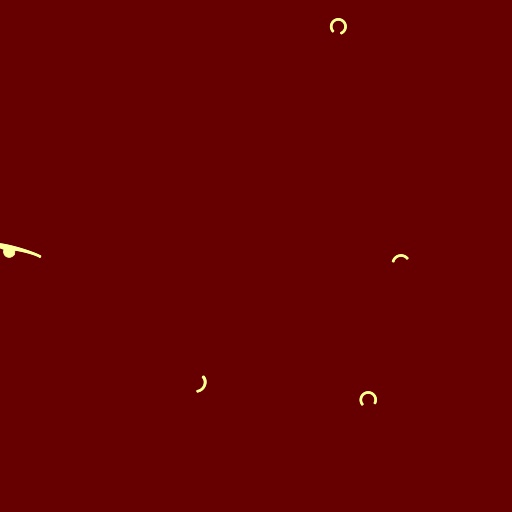
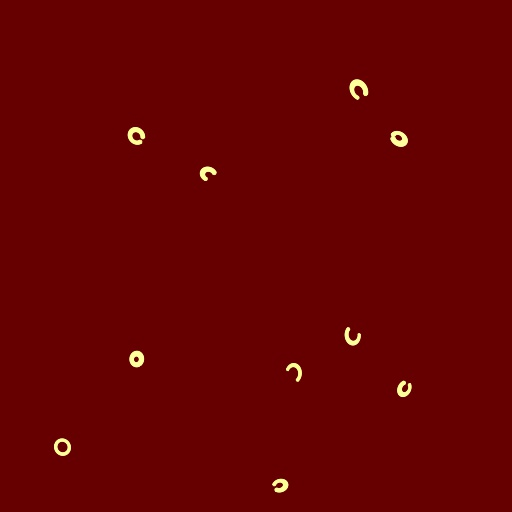
update

diff --git a/gusto/image_generator-04.py b/gusto/image_generator-04.py
@@ -244,15 +244,18 @@ class label_generator(defect):
         rgb=cmap(self.defect_color)
         return rgb
     def get_coordinates(self):
-        x=np.random.random_sample(self.Nr)*self.scale
-        y=np.random.random_sample(self.Nr)*self.scale
+        x=(0.04*self.scale+np.random.random_sample(self.Nr)*self.scale)*0.9
+        y=(0.04*self.scale+np.random.random_sample(self.Nr)*self.scale)*0.9
         pairs=np.transpose(np.array([x,y]))
         return pairs
     def get_radii(self,dev=0.1):
         array=np.random.normal(loc=self.radius,scale=dev*self.radius,size=self.Nr)
         return(array)
-    def get_thicknesses(self,dev=0.1):
-        array=np.random.normal(loc=self.thickness,scale=dev*self.thickness,size=self.Nr)
+    def get_thicknesses(self,sd=0.5):
+        #array=np.random.normal(loc=self.thickness,scale=dev*self.thickness,size=self.Nr)
+        array = np.zeros(self.Nr)
+        for i,k in enumerate(array):
+            array[i]=get_truncated_normal(mean=self.thickness, sd=0.5, low=0.8*self.thickness, upp=1.5*self.thickness)
         return(array)
     def get_cut_angle(self):
         array=(1-0.3)*np.random.random_sample(self.Nr)+0.3
@@ -260,16 +263,23 @@ class label_generator(defect):
     def get_box(self):
         self.box=[0,scale,0,scale]
         return self.box
-    def get_depth(self,dev=0.01,color_map_string='afmhot'):
+    def get_depth(self,dev=0.05,color_map_string='afmhot'):
         # cmap = cm.get_cmap(color_map_string)
         colors = np.random.normal(loc=self.defect_color,scale=dev*self.defect_color,size=self.Nr)
         # rgbs = np.transpose(np.delete(np.transpose(rgbs),3,0))
         return colors
     def get_sigma_lumpyness(self,dev=0.1):
-        sigma = get_truncated_normal(mean=1, sd=0.5, low=0.01, upp=10)
-        lumpyness = get_truncated_normal(mean=-1, sd=0.2, low=-1, upp=1)
-        array_s=np.random.normal(loc=sigma,scale=dev*sigma,size=self.Nr)
-        array_l=np.random.normal(loc=lumpyness,scale=abs(dev*lumpyness),size=self.Nr)
+        #sigma = get_truncated_normal(mean=1, sd=0.5, low=0.01, upp=10)
+        #lumpyness = get_truncated_normal(mean=-1, sd=0.2, low=-1, upp=1)
+        #array_s=np.random.normal(loc=sigma,scale=dev*sigma,size=self.Nr)
+        array_s = np.zeros(self.Nr)
+        array_l = np.zeros(self.Nr)
+        for i,k in enumerate(array_s):
+            array_s[i]=get_truncated_normal(mean=1, sd=0.5, low=0.01, upp=10)
+            array_l[i]=get_truncated_normal(mean=-1, sd=0.2, low=-1, upp=1)
+
+        #array_s=np.random.normal(loc=sigma,scale=dev*sigma,size=self.Nr)
+        #array_l=np.random.normal(loc=lumpyness,scale=abs(dev*lumpyness),size=self.Nr)
         return array_s,array_l
 
     def generate_immage_with_boxes(self,axs,noisy_backraund=True):
@@ -288,8 +298,9 @@ class label_generator(defect):
             thickness=self.thicknesses[i]
             color=self.colors[i]
             center=self.centers[i]
-            d = defect(r=self.radii[i],center=self.centers[i],thickness=self.thickness,color=self.colors[i])
-            d.add_bump(sigma=self.sigma[i],lumpyness=self.lumpyness[i])
+            #d = defect(r=self.radii[i],center=self.centers[i],thickness=self.thickness,color=self.colors[i])
+            d = defect(r=r,center=self.centers[i],thickness=thickness,color=self.colors[i])
+            d.add_bump()#sigma=self.sigma[i],lumpyness=self.lumpyness[i])
             d.cut(self.cut_angles[i])
             print("cut_angle:",self.cut_angles[i])
             d.rotate(angle=np.random.random()*np.pi*2)
@@ -392,7 +403,7 @@ rgb=cmap(x)
 for i in range(num_images):
     image_name = file_base+"_"+str(i)
 
-    r=label_generator(Nr=num_defects)
+    r=label_generator(Nr=num_defects,thickness=20)
     fig ,axs = plt.subplots(1,1,figsize=(10,10))
     axs.set_xlim((0,2))
     axs.set_ylim((0,2))
